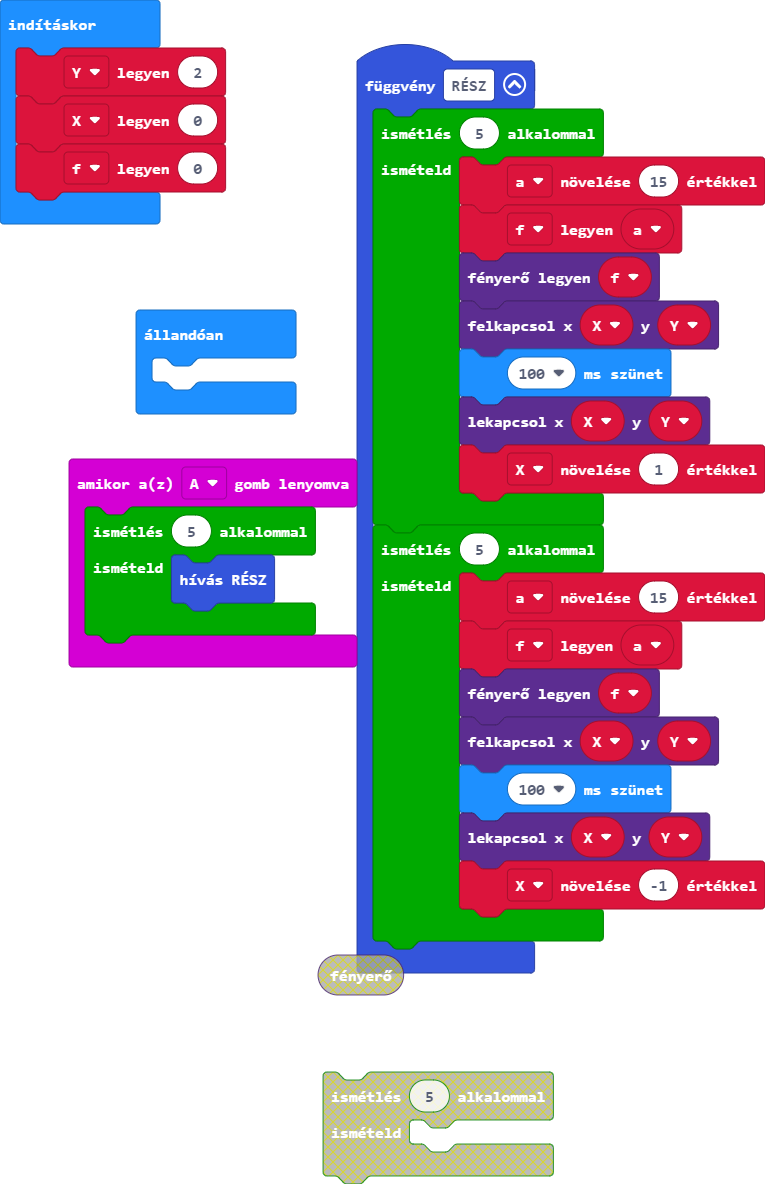
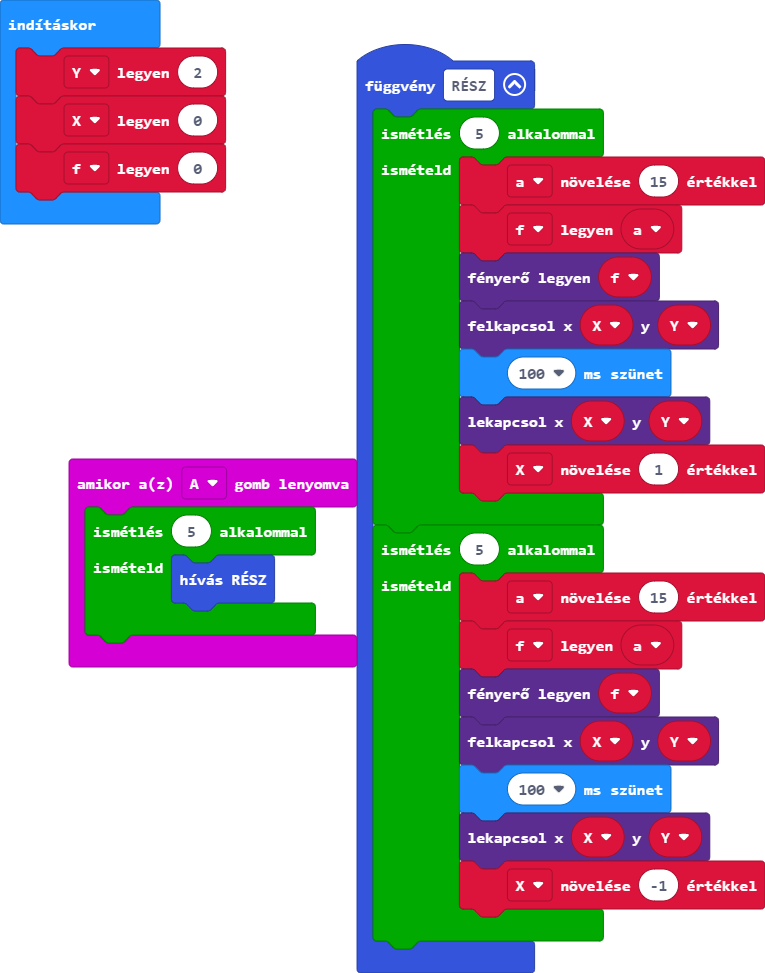
main.blocks, main.ts frissítése

diff --git a/main.ts b/main.ts
@@ -30,6 +30,3 @@ let Y = 0
 Y = 2
 X = 0
 f = 0
-basic.forever(function () {
-	
-})
